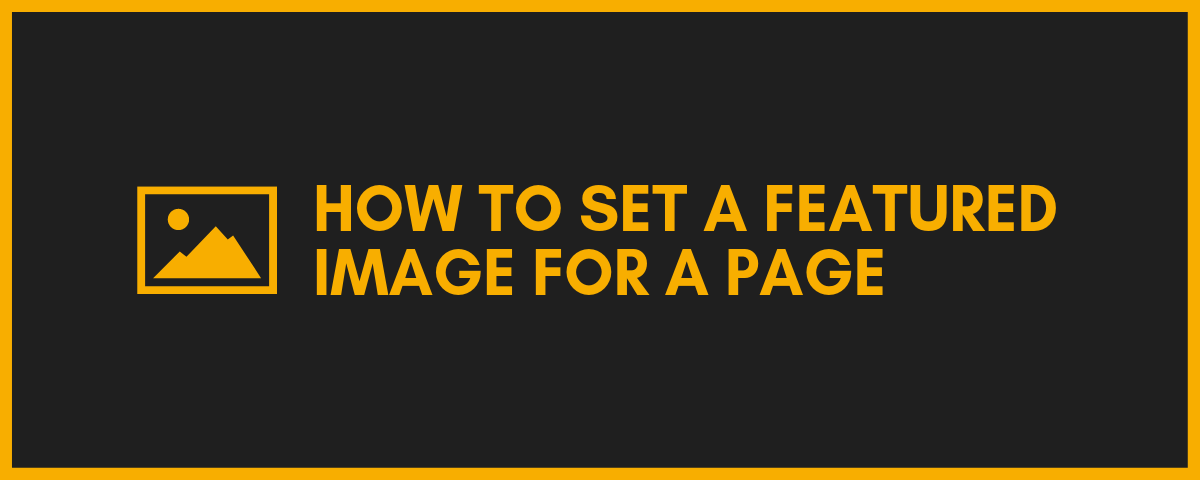
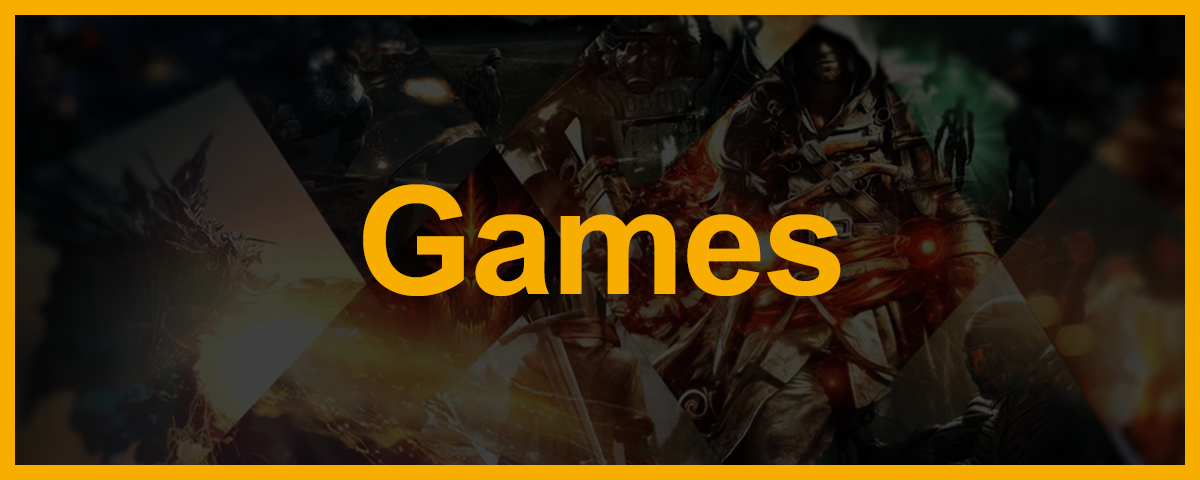
update domain and add page changes

diff --git a/content/post/games/index.md b/content/post/games/index.md
@@ -1,73 +1,58 @@
 ---
-title: Testing Update
-description: "In this page, we will explain what featured images are and show you some examples how to add a featured \
-image for a page."
-date: 2019-09-12
+title: Games
+description: "This page includes information about various websites to obtain games."
+date: 2024-02-18 
 ---
 
-Featured image is the image that appears on summaries at the list pages and the top of content pages. Every content page
-in this theme can have a featured image.
+This page has many websites related to games. Mostly focusing on PC games.
+
+#### **Always use Ad blockers when visiting any website.**
+---
+#### **I ABSOLUTELY DO NOT WANT TO HEAR ANY COMPLAINS ABOUT GETTING A VIRUS BECAUSE YOU ARE DUMB AND DO NOT KNOW WHERE TO CLICK.**
+
+Use [UBlockOrigin](https://ublockorigin.com/) or [AdGuard](https://adguard.com). Do not use AdBlock or AdBlockPlus.
 
 <!--more-->
+---
+## Types of Releases 🕹
 
-## How to add a featured image
+You can download games mainly using 2 methods. **Direct Downloads** (often called DDL) or **Torrents**. Both have their pros and cons and many differences but I usually go with torrents myself because of the following reasons.
 
-Content pages in Hugo can have their images or any other files stored under the same directory of the page itself.
-In Hugo's terms, it's called **page bundle** and allows us to keep all assets together with a page content file.
+1> Torrents are resumable and have no transfer limit.\
+2> Torrents use P2P (Peer-to-Peer) Sharing.\
+3> Direct Downloads are prone to random failures especially with large files or shoddy internet.
 
-This theme uses [page bundles](https://gohugo.io/content-management/organization/#page-bundles) for featured images.
-There are two main different ways to add a featured image.
+#### I recommend using **torrents**.
 
-### Option 1. Put `featured.*` or `thumbnail.*` image in the page bundle
+There are many torrent clients to choose from but you should probably just stick to [**QBittorrent**](https://www.qbittorrent.org/) or [**Transmission**](https://transmissionbt.com/).
 
-This theme considers `featured` or `thumbnail` image in any popular graphic format in the root of the page bundle as
-a featured image.
+#### Under no circumstances use `Bittorrent` or `uTorrent`. _**These are ad filled spyware**_.
 
-Directory structure of this page:
+---
 
-```
-content
-└── post
-    └── featured-images // single page folder (page bundle)
-        ├── featured.png // featured image
-        └── index.md // page content file
-```
+## Torrent Websites 🧲
 
-### Option 2. Put any image in the page bundle & specify `featured` param
+These are the torrent websites you should be able to find almost any game on. 
 
-You may put any image in the page bundle and specify `featured` param in the page's front matter:
+#### 🔥 [Fitgirl Repacks](https://fitgirl-repacks.site)
 
-```yaml
-featured: image.jpg
-```
+tl;dr: ***✅Small Size, ❌Slow Install***  
 
-- `featured` [`String`]: relative path of the image
+Fitgirl is one of the best source of games. I used FitGirl a lot for many years. The good thing about FitGirl is the small download sizes. Some games are compressed 2-5x their original size. 
 
-Or you can add some additional params like `alt`, `caption`, `credit` and `previewOnly`:
+I do not use fitgirl anymore because I have fast reliable internet now and the installation time is ***VERY LONG***.
 
-```yaml
-featured:
-  url: image.jpg
-  alt: A scale model of the Eiffel tower standing on a map
-  caption: Eiffel tower model
-  credit: Unknown author
-  previewOnly: false
-```
+#### 🔥 [Dodi Repacks](https://dodi-repacks.site)
 
-- `featured` [`Map`]:
-  - `url` [`String`]: relative path of the image
-  - `alt` [`String`]: alternate text for the image
-  - `caption` [`String`]: image caption
-  - `credit` [`String`]: image credit
-  - `previewOnly` [`Boolean`]: show only preview image
+tl;dr: ***❌Slightly bigger than Fitgirl, ✅Faster Install than Fitgirl***
 
-## FAQ
+Dodi is just like fitgirl except they release a lot more games than FitGirl. Dodi also releases games cracked by Empress (FitGirl doesn't). Dodi's releases are similar or just slightly bigger in size compared to FitGirl but the install times a significantly reduced. I would recommend Dodi if you have slow but unlimited internet. Go with fitgirl if you have limited bandwidth.
 
-**Q**: _What will happen if I specify `alt`, `caption`, `credit` params, but miss `url`? Featured image will be shown or
-not?_\
-**A**: In that case, featured image would appear only if the page bundle contains `featured.*` or `thumbnail.*` image.
-Otherwise, you'll get nothing.
+#### 🔥 [XATab](https://byxatab.com/) 🇷🇺
 
-**Q**: _Is featured image path case sensitive or insensitive? Featured.png and featured.png are different image relative
-paths for Hugo?_\
-**A**: The image matching is case-insensitive. In that case, Featured.png and featured.png are identical for Hugo.
+tl;dr: ***❌Large repacks, ✅Very fast install speeds***
+
+XATab is a russian release group. Their releases are larger in size but are very fast to install. I have used them time to time as backup. Make sure to change the language when visiting their website.
+
+---
+## DDL Websites ⏬
